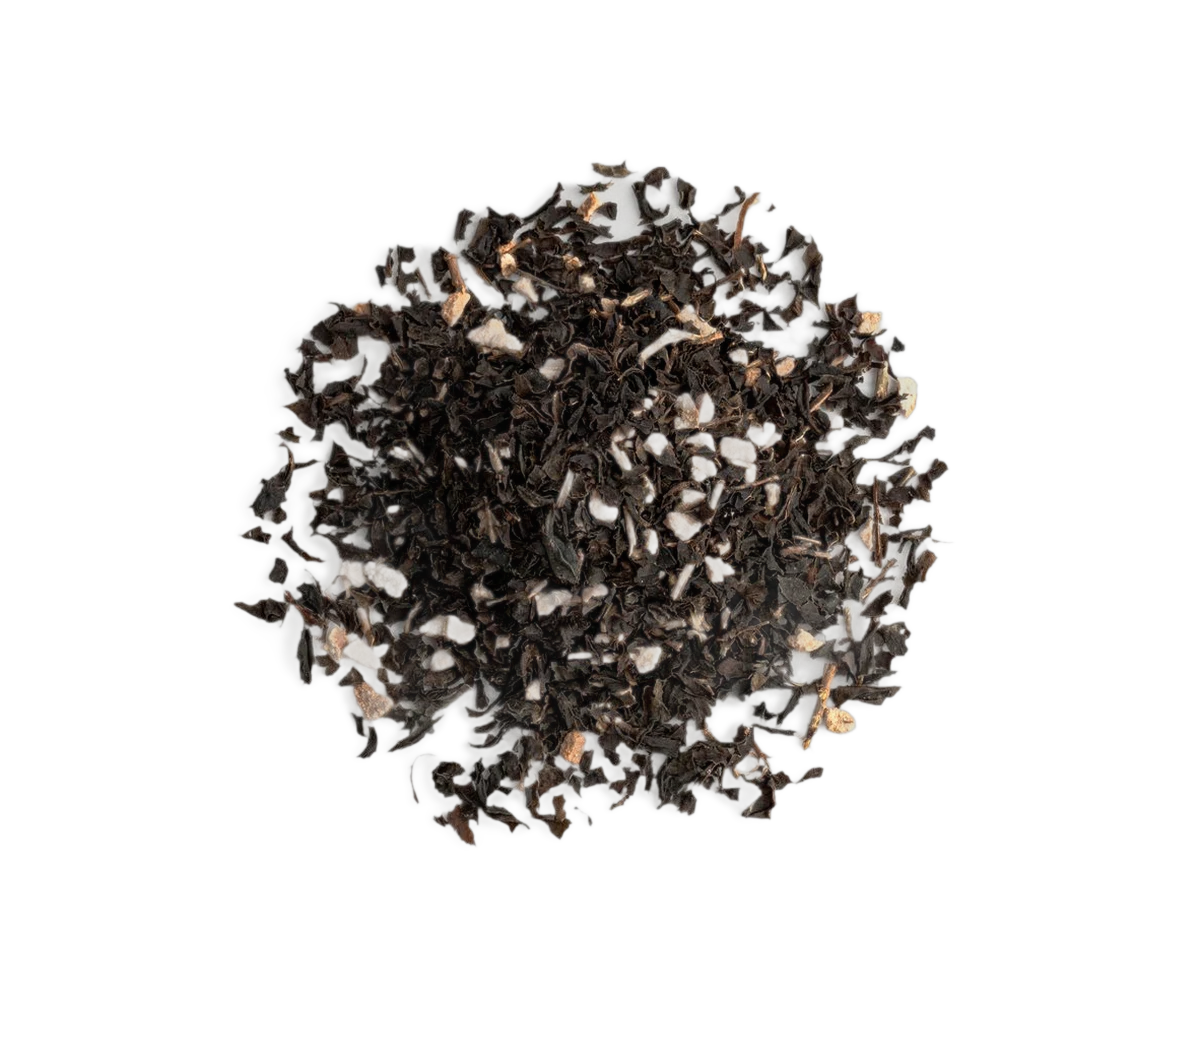
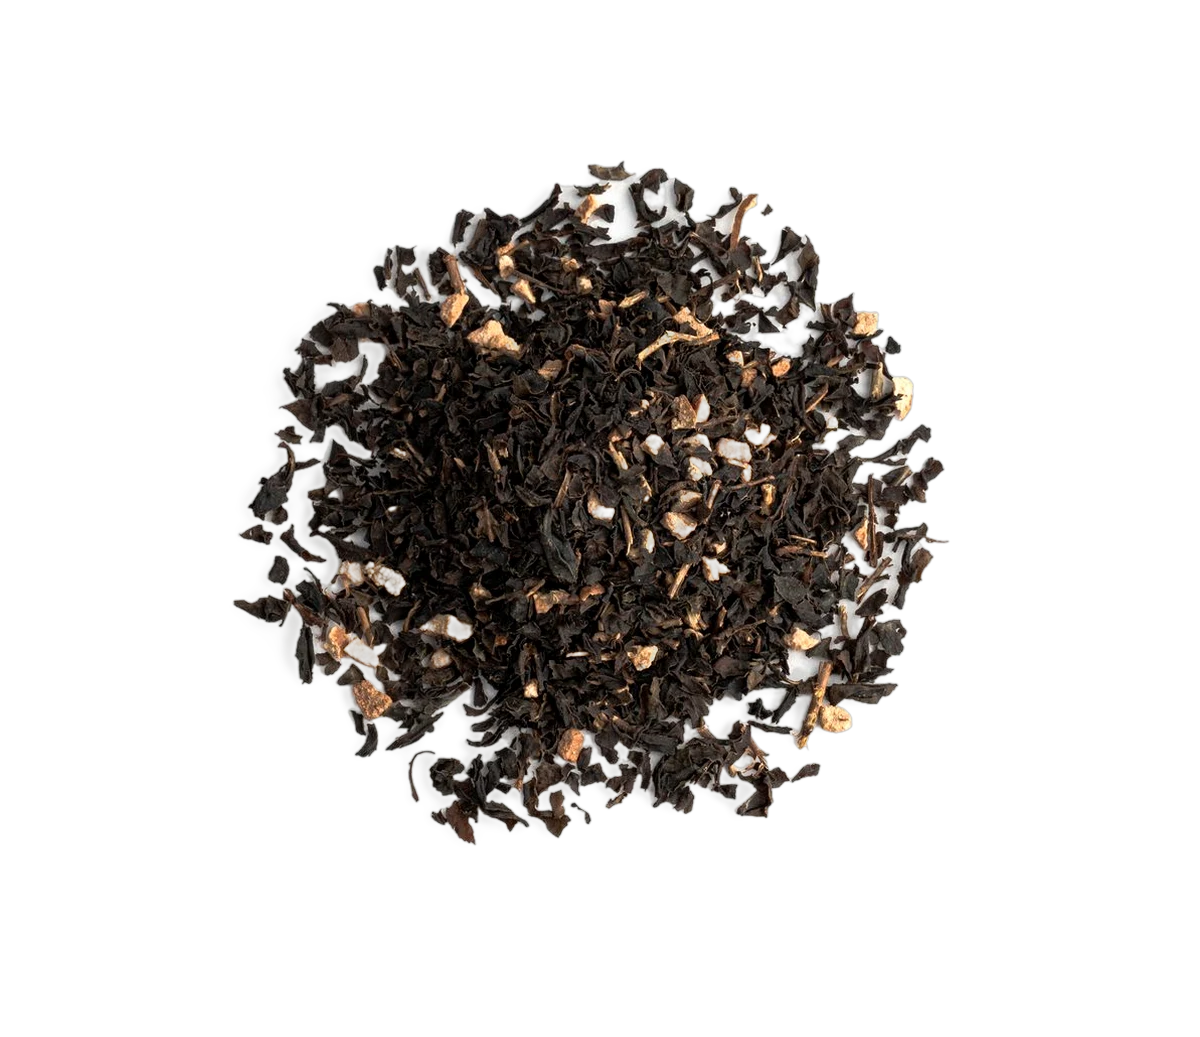
Ritual folded into Our Story; sejak notes alternate; pile mattes hardened
- ritual is now a tinted inset panel closing the story section (same 72rem
  cap as the ledger) instead of a stray band at the page end; #ritual anchor
  and nav link unchanged
- sejak collection notes now run right-left-right (STEEPS TO GOLD & JADE
  moved to the right at the sprig base), overlap-audited
- persimmon/hwangto piles: u2net returned ~80% semi-transparent alpha over
  the fuzzy leaf texture, letting paper bleed through dark leaves (the
  'mold' haze) — interior alpha hardened to opaque, edges stay soft

Changed region(s): [[0.185, 0.1543, 0.8017, 0.8023]]

diff --git a/koyo-site/index.html b/koyo-site/index.html
@@ -142,7 +142,7 @@
               <img class="spec-leaf" src="assets/img/single-sejak.webp" alt="Sejak leaf study" loading="lazy" />
               <p class="spec-note n1">SECOND FLUSH — LATE APRIL</p>
               <p class="spec-note n2">PLUCKED BY HAND, HADONG</p>
-              <p class="spec-note n3 n3-left">STEEPS TO GOLD &amp; JADE</p>
+              <p class="spec-note n3">STEEPS TO GOLD &amp; JADE</p>
             </div>
             <div class="spec-info" data-reveal>
               <p class="panel-index mono">N° 01 — GREEN TEA</p>
@@ -280,11 +280,7 @@
       </ul>
 
       <p class="story-vertical mono" aria-hidden="true">우리의 이야기 — SINCE 2019</p>
-    </section>
-
-
-    <!-- ═══════════ RITUAL ═══════════ -->
-    <section class="ritual" id="ritual">
+      <div class="ritual" id="ritual">
       <p class="eyebrow mono" data-reveal>THE RITUAL — 손맛</p>
       <h2 class="ritual-title" data-reveal>Brewed by feel.</h2>
       <p class="ritual-intro" data-reveal>
@@ -310,8 +306,12 @@
           <p>Steep again, and once more — two minutes, then four. Each cup reveals a different tea.</p>
         </li>
       </ol>
+      </div>
+
     </section>
 
+
+    <!-- ═══════════ RITUAL ═══════════ -->
 
     <!-- ═══════════ NEWSLETTER ═══════════ -->
     <section class="letter" id="letter">

diff --git a/koyo-site/css/style.css b/koyo-site/css/style.css
@@ -1103,7 +1103,9 @@ main { position: relative; z-index: 1; }
 .ritual {
   position: relative;
   background: var(--paper-deep);
-  padding: var(--sec-y) var(--pad-x);
+  max-width: 72rem;
+  margin: clamp(4.5rem, 10vh, 7rem) auto 0;
+  padding: clamp(3.5rem, 8vh, 5.5rem) clamp(2rem, 5vw, 5rem);
   text-align: center;
 }
 .ritual-title {
